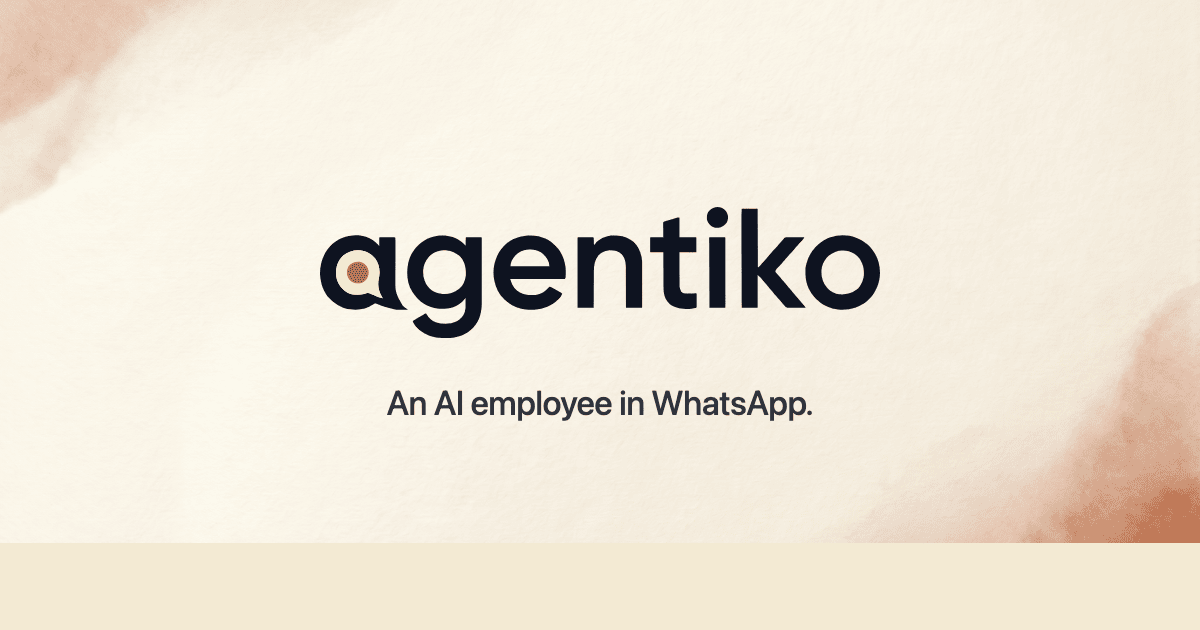
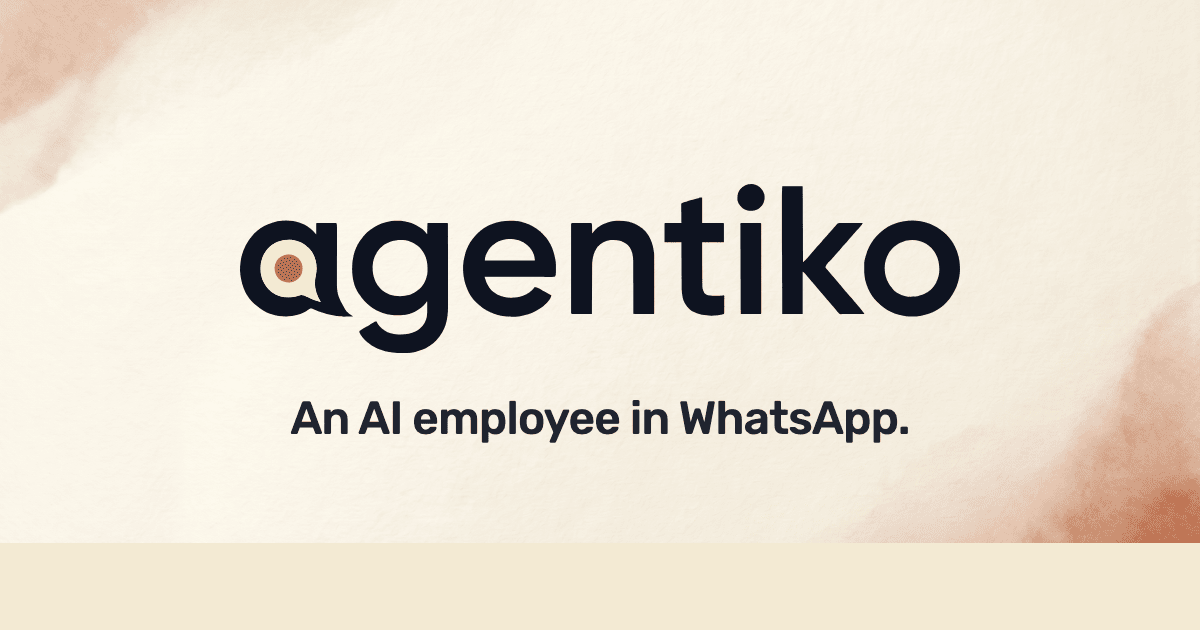
fix(og): lowercase agentiko in descriptions, bigger wordmark + tagline
- invite_og.render_og_block now renders `agentiko` (was `Agentiko`) in
  all OG titles, descriptions, site_name, and image:alt — matches the
  §5 "lowercase, always" rule for the wordmark.
- index.html static OG block and tests updated to match.
- Rebuilt og-image.png with 720px wordmark and 46px tagline so the
  card fills the frame and the flat cream band at the bottom goes away.

Changed region(s): [[0.185, 0.2714, 0.8017, 0.573], [0.2467, 0.6032, 0.7708, 0.6937], [0.925, 0.754, 1.0, 0.8746]]

diff --git a/frontend/index.html b/frontend/index.html
@@ -35,18 +35,18 @@
     <title>agentiko</title>
     <!-- OG:START — dynamic invite handler in app/api/main.py swaps this block for per-invite previews on bot UAs. Keep sentinels intact. -->
     <meta name="description" content="An AI employee in WhatsApp, for the price of a coffee a day." />
-    <meta property="og:site_name" content="Agentiko" />
+    <meta property="og:site_name" content="agentiko" />
     <meta property="og:type" content="website" />
-    <meta property="og:title" content="Agentiko" />
+    <meta property="og:title" content="agentiko" />
     <meta property="og:description" content="An AI employee in WhatsApp, for the price of a coffee a day." />
     <meta property="og:url" content="https://app.agentiko.io" />
     <meta property="og:image" content="https://app.agentiko.io/og-image.png" />
     <meta property="og:image:width" content="1200" />
     <meta property="og:image:height" content="630" />
     <meta property="og:image:type" content="image/png" />
-    <meta property="og:image:alt" content="Agentiko" />
+    <meta property="og:image:alt" content="agentiko" />
     <meta name="twitter:card" content="summary_large_image" />
-    <meta name="twitter:title" content="Agentiko" />
+    <meta name="twitter:title" content="agentiko" />
     <meta name="twitter:description" content="An AI employee in WhatsApp, for the price of a coffee a day." />
     <meta name="twitter:image" content="https://app.agentiko.io/og-image.png" />
     <!-- OG:END -->

diff --git a/tests/test_invite_og.py b/tests/test_invite_og.py
@@ -3,7 +3,7 @@
 Covers the four-case matrix from the plan:
 
   1. Bot UA + valid token   -> dynamic "{inviter} invited you to {tenant}"
-  2. Bot UA + invalid token -> generic "invited to Agentiko" fallback
+  2. Bot UA + invalid token -> generic "invited to agentiko" fallback
                                (must NOT leak inviter/tenant from cache)
   3. Human UA                -> untouched SPA index.html
   4. Missing token on bot UA -> same generic fallback
@@ -36,9 +36,9 @@ from api.invite_og import (  # noqa: E402
 INDEX_TEMPLATE = """<!doctype html>
 <html lang="he" dir="rtl">
 <head>
-  <title>Agentiko</title>
+  <title>agentiko</title>
   <!-- OG:START -->
-  <meta property="og:title" content="Agentiko" />
+  <meta property="og:title" content="agentiko" />
   <meta property="og:description" content="An AI employee in WhatsApp, for the price of a coffee a day." />
   <meta property="og:image" content="https://app.agentiko.io/og-image.png" />
   <!-- OG:END -->
@@ -108,7 +108,7 @@ def test_human_ua_gets_untouched_spa(client):
     client.app.state.db.get_invite_by_token.assert_not_called()
     # Original static OG block untouched
     assert "Yossi" not in resp.text
-    assert 'content="Agentiko"' in resp.text
+    assert 'content="agentiko"' in resp.text
 
 
 def test_bot_without_token_gets_generic_og(client):
@@ -128,7 +128,7 @@ def test_english_accept_language_renders_english(client):
             "Accept-Language": "en-US,en;q=0.9",
         },
     )
-    assert "invited you to Salon Dalia on Agentiko" in resp.text
+    assert "invited you to Salon Dalia on agentiko" in resp.text
 
 
 # ── Pure-function unit tests ─────────────────────────────────────────────
@@ -194,7 +194,7 @@ def test_render_og_block_generic_when_no_invite():
         role=None,
         lang="en",
     )
-    assert "invited to Agentiko" in block
+    assert "invited to agentiko" in block
 
 
 def test_render_og_block_escapes_hostile_input():
@@ -215,20 +215,20 @@ def test_inject_og_replaces_marker_region():
     html = (
         "<head>\n"
         "    <!-- OG:START -->\n"
-        '    <meta property="og:title" content="Agentiko" />\n'
+        '    <meta property="og:title" content="agentiko" />\n'
         "    <!-- OG:END -->\n"
         "</head>"
     )
     replacement = '<meta property="og:title" content="Custom" />'
     out = inject_og(html, replacement)
     assert "Custom" in out
-    assert 'content="Agentiko"' not in out
+    assert 'content="agentiko"' not in out
     assert "<!-- OG:START -->" in out
     assert "<!-- OG:END -->" in out
 
 
 def test_inject_og_passthrough_when_markers_missing():
-    html = "<head><title>Agentiko</title></head>"
+    html = "<head><title>agentiko</title></head>"
     out = inject_og(html, '<meta property="og:title" content="Custom" />')
     # Missing markers => return untouched so we never serve broken HTML
     assert out == html

diff --git a/api/invite_og.py b/api/invite_og.py
@@ -88,19 +88,19 @@ def render_og_block(
         safe_inviter = html.escape(inviter_name or "", quote=True)
         safe_tenant = html.escape(tenant_name or "", quote=True)
         if lang == "en":
-            title = f"{safe_inviter} invited you to {safe_tenant} on Agentiko"
+            title = f"{safe_inviter} invited you to {safe_tenant} on agentiko"
             description = (
-                f"Join {safe_tenant} as {html.escape(role or 'a member', quote=True)} on Agentiko."
+                f"Join {safe_tenant} as {html.escape(role or 'a member', quote=True)} on agentiko."
             )
         else:
-            title = f"{safe_inviter} הזמין/ה אותך ל-{safe_tenant} ב-Agentiko"
-            description = f"הצטרף/י ל-{safe_tenant} ב-Agentiko."
+            title = f"{safe_inviter} הזמין/ה אותך ל-{safe_tenant} ב-agentiko"
+            description = f"הצטרף/י ל-{safe_tenant} ב-agentiko."
     else:
         if lang == "en":
-            title = "You've been invited to Agentiko"
+            title = "You've been invited to agentiko"
             description = "An AI employee in WhatsApp, for the price of a coffee a day."
         else:
-            title = "הוזמנת ל-Agentiko"
+            title = "הוזמנת ל-agentiko"
             description = "עובד AI בוואטסאפ, במחיר של קפה ביום."
 
     og_locale = "he_IL" if lang == "he" else "en_US"
@@ -108,7 +108,7 @@ def render_og_block(
     return "\n    ".join(
         [
             f'<meta name="description" content="{description}" />',
-            f'<meta property="og:site_name" content="Agentiko" />',
+            f'<meta property="og:site_name" content="agentiko" />',
             f'<meta property="og:type" content="website" />',
             f'<meta property="og:locale" content="{og_locale}" />',
             f'<meta property="og:title" content="{title}" />',
@@ -118,7 +118,7 @@ def render_og_block(
             f'<meta property="og:image:width" content="1200" />',
             f'<meta property="og:image:height" content="630" />',
             f'<meta property="og:image:type" content="image/png" />',
-            f'<meta property="og:image:alt" content="Agentiko" />',
+            f'<meta property="og:image:alt" content="agentiko" />',
             f'<meta name="twitter:card" content="summary_large_image" />',
             f'<meta name="twitter:title" content="{title}" />',
             f'<meta name="twitter:description" content="{description}" />',
